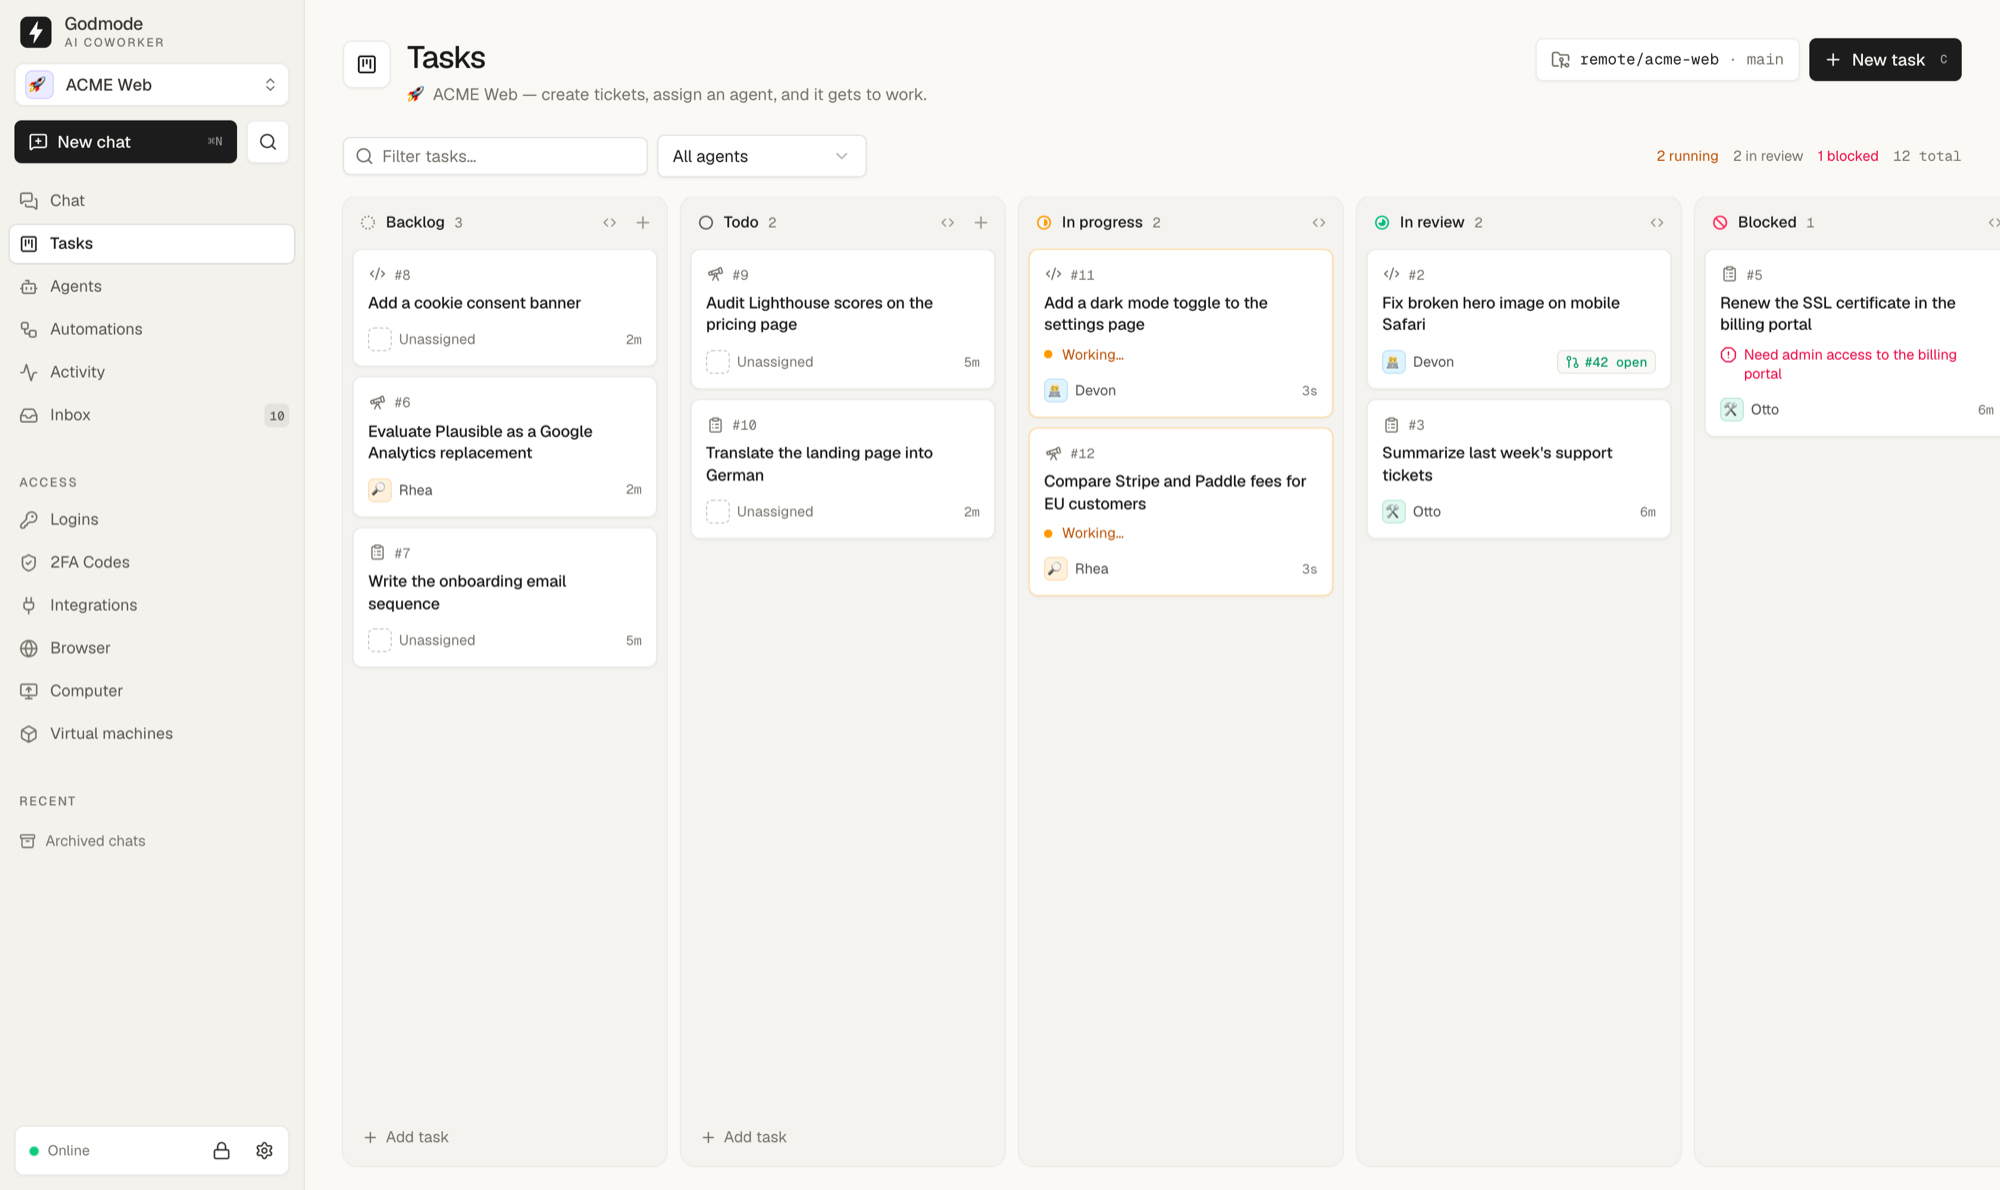
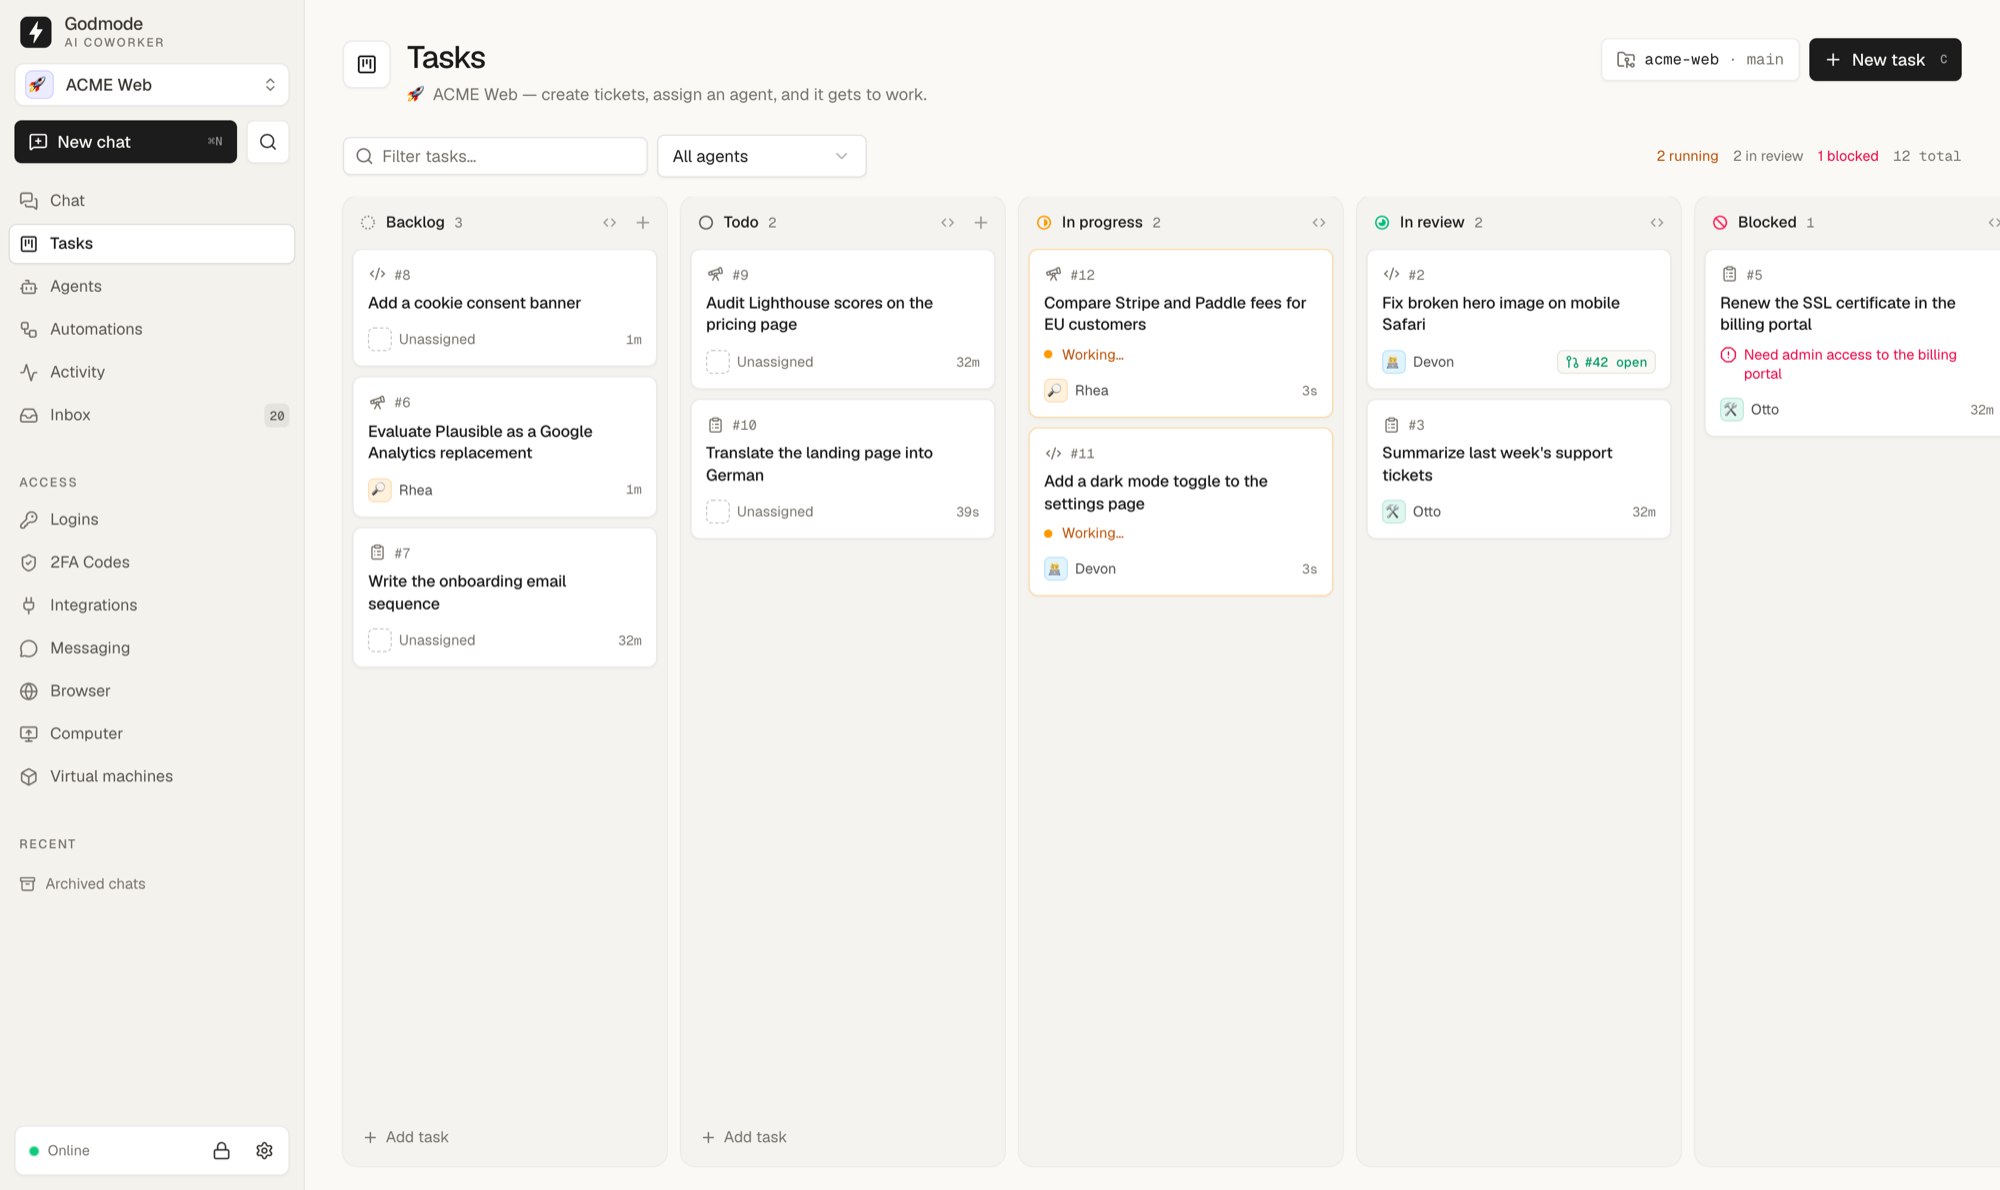
Show owner/repo for any clone URL on task cards and refresh task screenshots

diff --git a/apps/desktop/src/components/tasks/task-meta.tsx b/apps/desktop/src/components/tasks/task-meta.tsx
@@ -86,9 +86,12 @@ export function isWorking(task: Task): boolean {
   return task.status === "in_progress" && (task.runStatus === "queued" || task.runStatus === "running" || !!task.activity);
 }
 
+/** "owner/repo" of a clone URL (https, ssh or git@host:owner/repo), or its last path segment. */
 export function repoLabel(url: string): string {
-  const m = /[/:]([^/:]+\/[^/]+?)(?:\.git)?\/?$/.exec(url.trim());
-  return m?.[1] ?? url;
+  const u = url.trim();
+  const path = /^[\w.-]+@[\w.-]+:(?!\/\/)(.+)$/.exec(u)?.[1] ?? u.replace(/^[a-z][\w+.-]*:\/\/[^/]+/i, "");
+  const parts = path.replace(/\.git\/?$/i, "").split("/").filter(Boolean);
+  return parts.slice(-2).join("/") || u;
 }
 
 /** The workspace's git repositories; coding tasks use the first unless they name another. */
